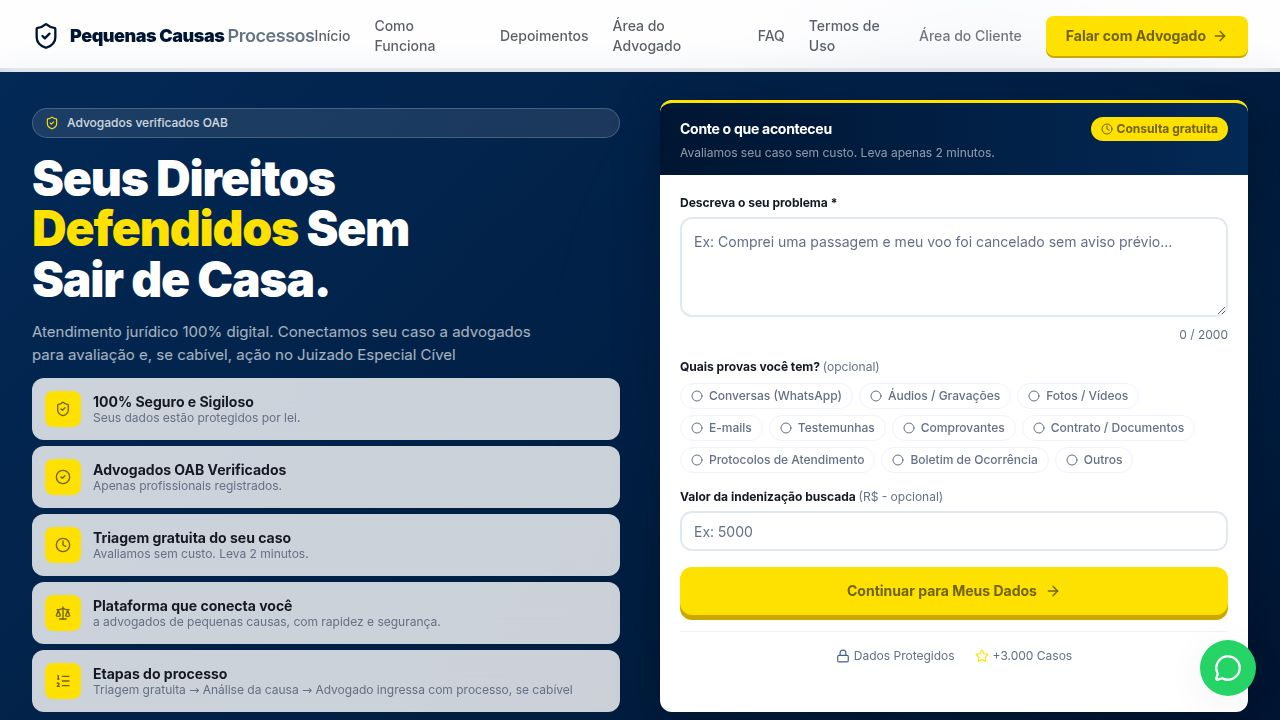
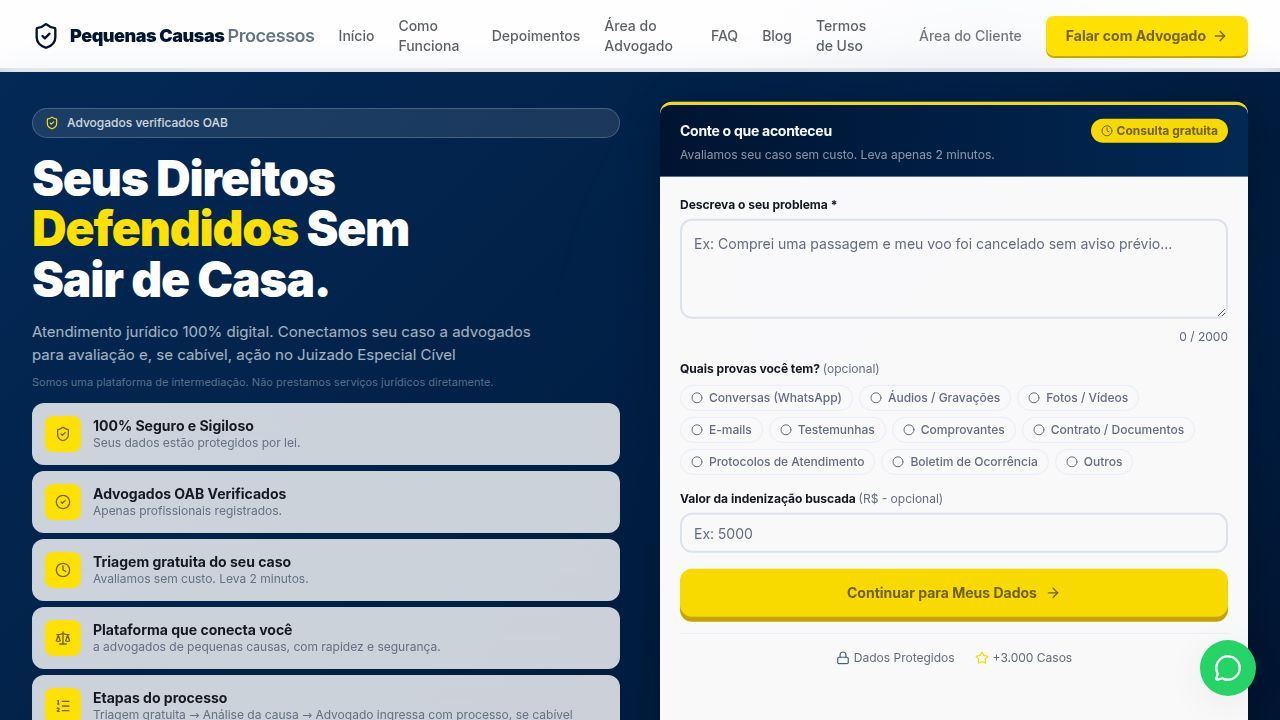
Restore website functionality by reintroducing essential tracking and user engagement components
Reintegrates Google Tag Manager, updates layout with business information, adds a disclaimer and an exit-intent popup to the homepage, and recreates the GTM helper functions.

Replit-Commit-Author: Agent
Replit-Commit-Session-Id: 91dd2781-3d65-462a-8567-3e578f7d7d36
Replit-Commit-Checkpoint-Type: full_checkpoint
Replit-Commit-Event-Id: d44c1c34-0f66-447b-9792-58a40cecd70d
Replit-Commit-Screenshot-Url: https://storage.googleapis.com/screenshot-production-us-central1/de4739d9-2060-43e8-a533-7fad07ce55ea/91dd2781-3d65-462a-8567-3e578f7d7d36/QkhuRW2
Replit-Helium-Checkpoint-Created: true

diff --git a/artifacts/jusbrasil/src/components/ExitIntentPopup.tsx b/artifacts/jusbrasil/src/components/ExitIntentPopup.tsx
@@ -1,0 +1,182 @@
+import React, { useEffect, useState, useRef } from "react";
+import { supabase } from "@/lib/supabase";
+import { pushDataLayer } from "@/lib/gtm";
+
+const SESSION_KEY = "exit_intent_shown";
+
+export default function ExitIntentPopup() {
+  const [visible, setVisible] = useState(false);
+  const [telefone, setTelefone] = useState("");
+  const [loading, setLoading] = useState(false);
+  const [submitted, setSubmitted] = useState(false);
+  const [error, setError] = useState("");
+  const shownRef = useRef(false);
+  const enabledRef = useRef(false);
+
+  function show() {
+    if (shownRef.current) return;
+    if (sessionStorage.getItem(SESSION_KEY)) return;
+    shownRef.current = true;
+    sessionStorage.setItem(SESSION_KEY, "1");
+    setVisible(true);
+    pushDataLayer("exit_intent_shown");
+  }
+
+  useEffect(() => {
+    const timer = setTimeout(() => {
+      enabledRef.current = true;
+    }, 10000);
+
+    function onMouseLeave(e: MouseEvent) {
+      if (!enabledRef.current) return;
+      if (e.clientY <= 10) show();
+    }
+
+    let lastY = window.scrollY;
+    function onScroll() {
+      if (!enabledRef.current) return;
+      const currentY = window.scrollY;
+      if (currentY < lastY - 80 && currentY < 300) show();
+      lastY = currentY;
+    }
+
+    document.addEventListener("mouseleave", onMouseLeave);
+    window.addEventListener("scroll", onScroll, { passive: true });
+
+    return () => {
+      clearTimeout(timer);
+      document.removeEventListener("mouseleave", onMouseLeave);
+      window.removeEventListener("scroll", onScroll);
+    };
+  }, []);
+
+  async function handleSubmit(e: React.FormEvent) {
+    e.preventDefault();
+    if (!telefone.replace(/\D/g, "").match(/^\d{10,11}$/)) {
+      setError("Digite um WhatsApp válido com DDD.");
+      return;
+    }
+    setLoading(true);
+    setError("");
+    try {
+      const { error: err } = await supabase.from("leads").insert({
+        telefone,
+        causa: "exit_intent",
+        status: "lead_morno",
+        created_at: new Date().toISOString(),
+      });
+      if (err) throw err;
+      pushDataLayer("exit_intent_submit");
+      setSubmitted(true);
+    } catch (e: unknown) {
+      setError(e instanceof Error ? e.message : "Erro ao enviar. Tente novamente.");
+    } finally {
+      setLoading(false);
+    }
+  }
+
+  if (!visible) return null;
+
+  return (
+    <div
+      style={{
+        position: "fixed", inset: 0, zIndex: 9999,
+        background: "rgba(0,0,0,0.65)", display: "flex",
+        alignItems: "center", justifyContent: "center", padding: 16,
+      }}
+      onClick={e => { if (e.target === e.currentTarget) setVisible(false); }}
+    >
+      <div style={{
+        background: "#fff", borderRadius: 20, padding: "36px 32px",
+        maxWidth: 440, width: "100%", position: "relative",
+        boxShadow: "0 24px 64px rgba(0,0,0,0.3)",
+      }}>
+        <button
+          onClick={() => setVisible(false)}
+          style={{
+            position: "absolute", top: 14, right: 16, background: "none",
+            border: "none", fontSize: 22, cursor: "pointer", color: "#9ca3af",
+          }}
+        >×</button>
+
+        {submitted ? (
+          <div style={{ textAlign: "center", padding: "16px 0" }}>
+            <div style={{
+              width: 64, height: 64, borderRadius: "50%",
+              background: "#dcfce7", display: "flex", alignItems: "center",
+              justifyContent: "center", margin: "0 auto 16px", fontSize: 28,
+            }}>✓</div>
+            <h3 style={{ fontSize: 20, fontWeight: 800, color: "#0a1628", marginBottom: 8 }}>
+              Recebido!
+            </h3>
+            <p style={{ fontSize: 14, color: "#6b7280", lineHeight: 1.6 }}>
+              Um especialista entrará em contato pelo WhatsApp <strong>{telefone}</strong> em até 24h para avaliar seu caso gratuitamente.
+            </p>
+            <button
+              onClick={() => setVisible(false)}
+              style={{
+                marginTop: 20, background: "#0a1628", color: "#fff",
+                border: "none", borderRadius: 10, padding: "12px 24px",
+                fontWeight: 700, fontSize: 14, cursor: "pointer", width: "100%",
+              }}
+            >Fechar</button>
+          </div>
+        ) : (
+          <>
+            <div style={{
+              background: "#fff3cd", borderRadius: 10, padding: "10px 14px",
+              marginBottom: 20, display: "flex", alignItems: "center", gap: 8,
+            }}>
+              <span style={{ fontSize: 18 }}>⚠</span>
+              <p style={{ fontSize: 13, color: "#856404", fontWeight: 600, margin: 0 }}>
+                Espere! Seu caso pode ter solução.
+              </p>
+            </div>
+
+            <h2 style={{ fontSize: 22, fontWeight: 900, color: "#0a1628", marginBottom: 8, lineHeight: 1.2 }}>
+              Avalie Seu Caso <span style={{ color: "#c8a400" }}>Gratuitamente</span>
+            </h2>
+            <p style={{ fontSize: 14, color: "#6b7280", marginBottom: 20, lineHeight: 1.6 }}>
+              Deixe seu WhatsApp e um especialista avalia seu caso <strong>gratuitamente</strong> em até 24h.
+            </p>
+
+            <form onSubmit={handleSubmit}>
+              <input
+                type="tel"
+                placeholder="(11) 99999-9999"
+                value={telefone}
+                onChange={e => setTelefone(e.target.value)}
+                style={{
+                  width: "100%", padding: "14px", borderRadius: 10,
+                  border: "1.5px solid #d1d5db", fontSize: 16, color: "#0a1628",
+                  background: "#fff", outline: "none", boxSizing: "border-box",
+                  fontFamily: "inherit", marginBottom: 8,
+                }}
+              />
+              {error && <p style={{ color: "#ef4444", fontSize: 12, marginBottom: 8 }}>{error}</p>}
+              <button
+                type="submit"
+                disabled={loading}
+                style={{
+                  width: "100%", padding: "14px", borderRadius: 10,
+                  background: loading ? "#e5e7eb" : "#c8a400",
+                  color: loading ? "#9ca3af" : "#0a1628",
+                  fontWeight: 800, fontSize: 15, border: "none",
+                  cursor: loading ? "not-allowed" : "pointer",
+                  boxShadow: loading ? "none" : "0 3px 0 rgba(0,0,0,0.18)",
+                  minHeight: 48,
+                }}
+              >
+                {loading ? "Enviando..." : "Quero Avaliação Gratuita →"}
+              </button>
+            </form>
+
+            <p style={{ fontSize: 11, color: "#9ca3af", textAlign: "center", marginTop: 12 }}>
+              🔒 Seus dados estão protegidos. Sem spam.
+            </p>
+          </>
+        )}
+      </div>
+    </div>
+  );
+}

diff --git a/artifacts/jusbrasil/index.html b/artifacts/jusbrasil/index.html
@@ -1,6 +1,21 @@
 <!DOCTYPE html>
 <html lang="pt-BR">
   <head>
+    <!-- Google tag (gtag.js) -->
+    <script async src="https://www.googletagmanager.com/gtag/js?id=AW-16505818170"></script>
+    <script>
+      window.dataLayer = window.dataLayer || [];
+      function gtag(){dataLayer.push(arguments);}
+      gtag('js', new Date());
+      gtag('config', 'AW-16505818170');
+    </script>
+    <!-- Google Tag Manager -->
+    <script>(function(w,d,s,l,i){w[l]=w[l]||[];w[l].push({'gtm.start':
+    new Date().getTime(),event:'gtm.js'});var f=d.getElementsByTagName(s)[0],
+    j=d.createElement(s),dl=l!='dataLayer'?'&l='+l:'';j.async=true;j.src=
+    'https://www.googletagmanager.com/gtm.js?id='+i+dl;f.parentNode.insertBefore(j,f);
+    })(window,document,'script','dataLayer','GTM-NPBGFM2S');</script>
+    <!-- End Google Tag Manager -->
     <meta charset="UTF-8" />
     <meta name="viewport" content="width=device-width, initial-scale=1.0, maximum-scale=1" />
     <title>Pequenas Causas | Advogados Especialistas em Juizado Especial - R$149,99</title>
@@ -29,6 +44,10 @@
     <link href="https://fonts.googleapis.com/css2?family=Inter:wght@400;500;600;700&display=swap" rel="stylesheet">
   </head>
   <body>
+    <!-- Google Tag Manager (noscript) -->
+    <noscript><iframe src="https://www.googletagmanager.com/ns.html?id=GTM-NPBGFM2S"
+    height="0" width="0" style="display:none;visibility:hidden"></iframe></noscript>
+    <!-- End Google Tag Manager -->
     <div id="root"></div>
     <script type="module" src="/src/main.tsx"></script>
   </body>

diff --git a/artifacts/jusbrasil/src/pages/home.tsx b/artifacts/jusbrasil/src/pages/home.tsx
@@ -1,5 +1,6 @@
 import React, { useState } from "react";
 import { Layout } from "@/components/layout";
+import ExitIntentPopup from "@/components/ExitIntentPopup";
 import { motion, AnimatePresence } from "framer-motion";
 import { 
   ShieldCheck, 
@@ -266,7 +267,8 @@ export default function Home() {
                 <span className="text-[#fee001]">Defendidos</span> Sem<br />
                 Sair de Casa.
               </h1>
-              <p className="text-white/65 mb-3 max-w-lg text-[15px]">Atendimento jurídico 100% digital. Conectamos seu caso a advogados para avaliação e, se cabível, ação no Juizado Especial Cível</p>
+              <p className="text-white/65 mb-2 max-w-lg text-[15px]">Atendimento jurídico 100% digital. Conectamos seu caso a advogados para avaliação e, se cabível, ação no Juizado Especial Cível</p>
+              <p className="text-white/35 mb-3 max-w-lg text-[11px]">Somos uma plataforma de intermediação. Não prestamos serviços jurídicos diretamente.</p>
 
               {/* Trust badges */}
               <div className="grid grid-cols-2 gap-1.5 flex-1 content-between">
@@ -931,6 +933,7 @@ export default function Home() {
           <p className="text-xs text-white/25 mt-8">Habilitação profissional sujeita a verificação</p>
         </div>
       </section>
+      <ExitIntentPopup />
     </Layout>
   );
 }

diff --git a/artifacts/jusbrasil/src/components/layout.tsx b/artifacts/jusbrasil/src/components/layout.tsx
@@ -159,7 +159,7 @@ export function Layout({ children }: { children: React.ReactNode }) {
             <div>
               <h4 className="font-bold text-base mb-5 text-white/80">Atendimento</h4>
               <a
-                href="https://api.whatsapp.com/send?phone=5511969284925"
+                href="https://wa.me/5511969284925"
                 target="_blank"
                 rel="noopener noreferrer"
                 className="inline-flex items-center gap-2 px-5 py-3 rounded-xl bg-white/5 hover:bg-white/10 transition-colors text-sm font-medium text-white/70"
@@ -177,6 +177,12 @@ export function Layout({ children }: { children: React.ReactNode }) {
               <p className="text-xs text-white/30 mt-4">
                 Segunda a Sexta, das 09h às 18h.
               </p>
+              <div className="mt-6 pt-4 border-t border-white/10">
+                <p className="text-xs text-white/40 leading-relaxed">Smartbox Distribuidora LTDA</p>
+                <p className="text-xs text-white/40 leading-relaxed">CNPJ: 42.605.688/0001-83</p>
+                <p className="text-xs text-white/40 leading-relaxed">Rua Artur de Azevedo, 1217 - Pinheiros</p>
+                <p className="text-xs text-white/40 leading-relaxed">São Paulo — SP</p>
+              </div>
             </div>
           </div>
 

diff --git a/artifacts/jusbrasil/src/lib/gtm.ts b/artifacts/jusbrasil/src/lib/gtm.ts
@@ -1,0 +1,4 @@
+export function pushDataLayer(event: string, data?: Record<string, any>) {
+  (window as any).dataLayer = (window as any).dataLayer || [];
+  (window as any).dataLayer.push({ event, ...data });
+}
